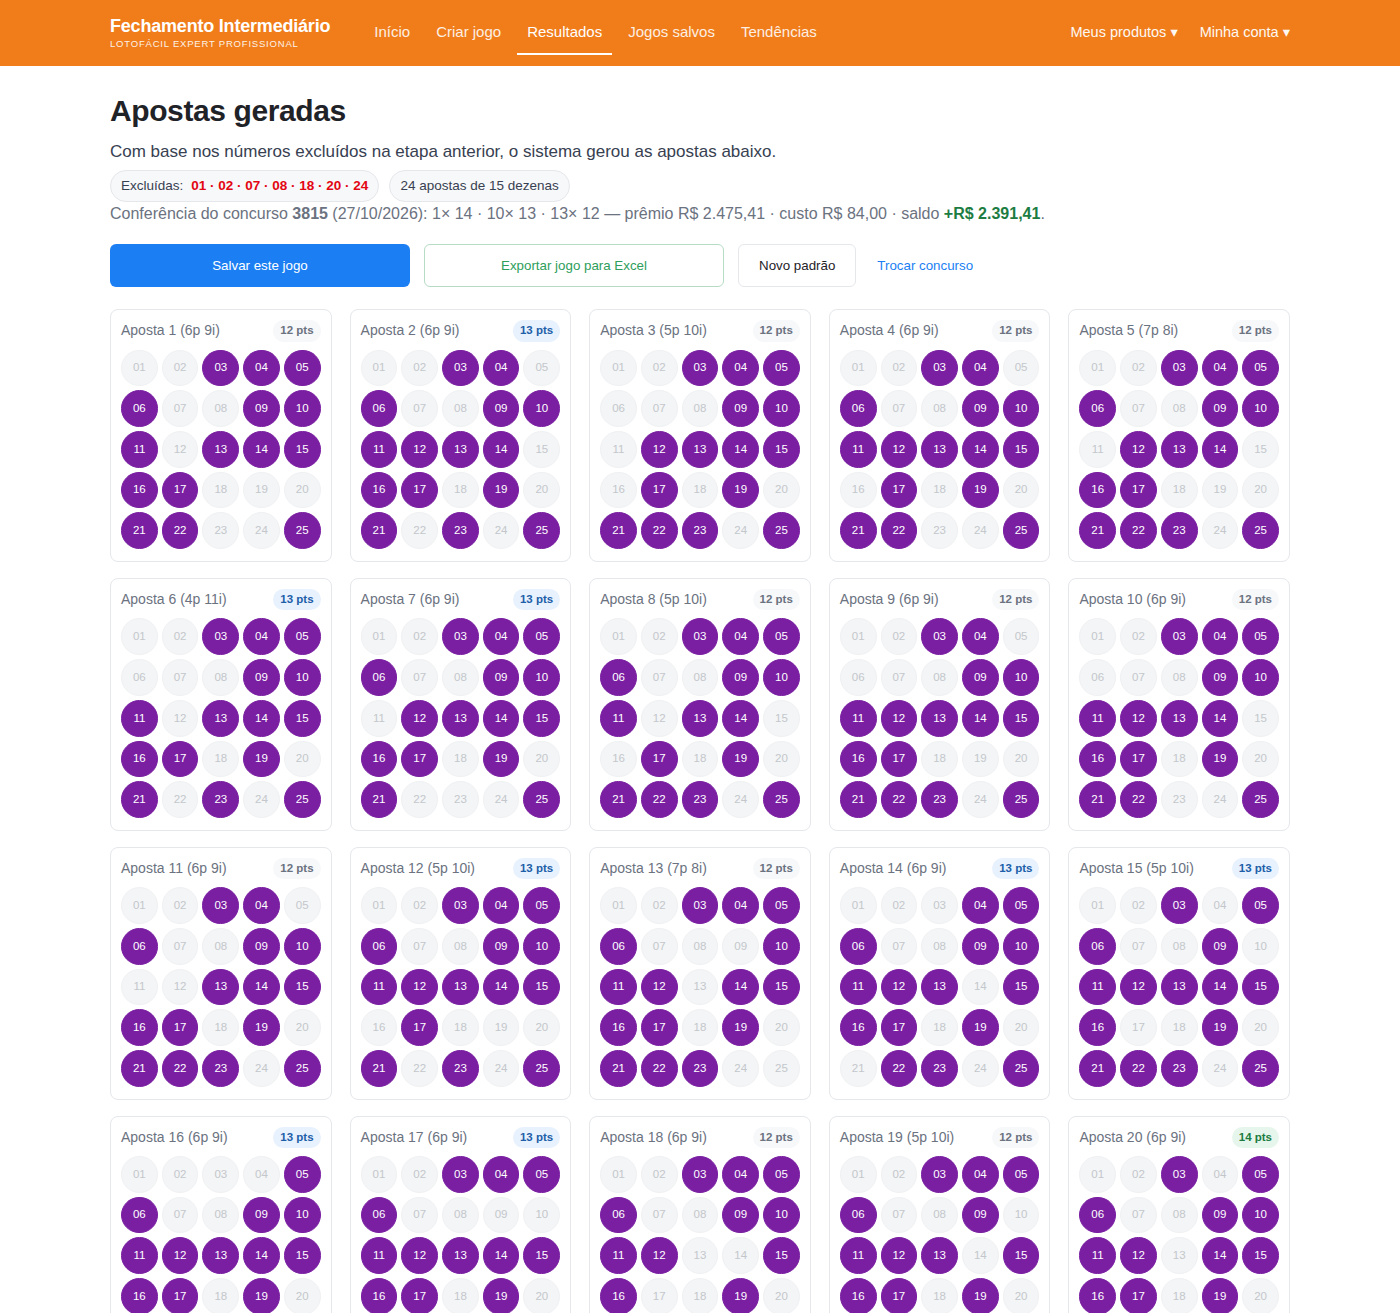
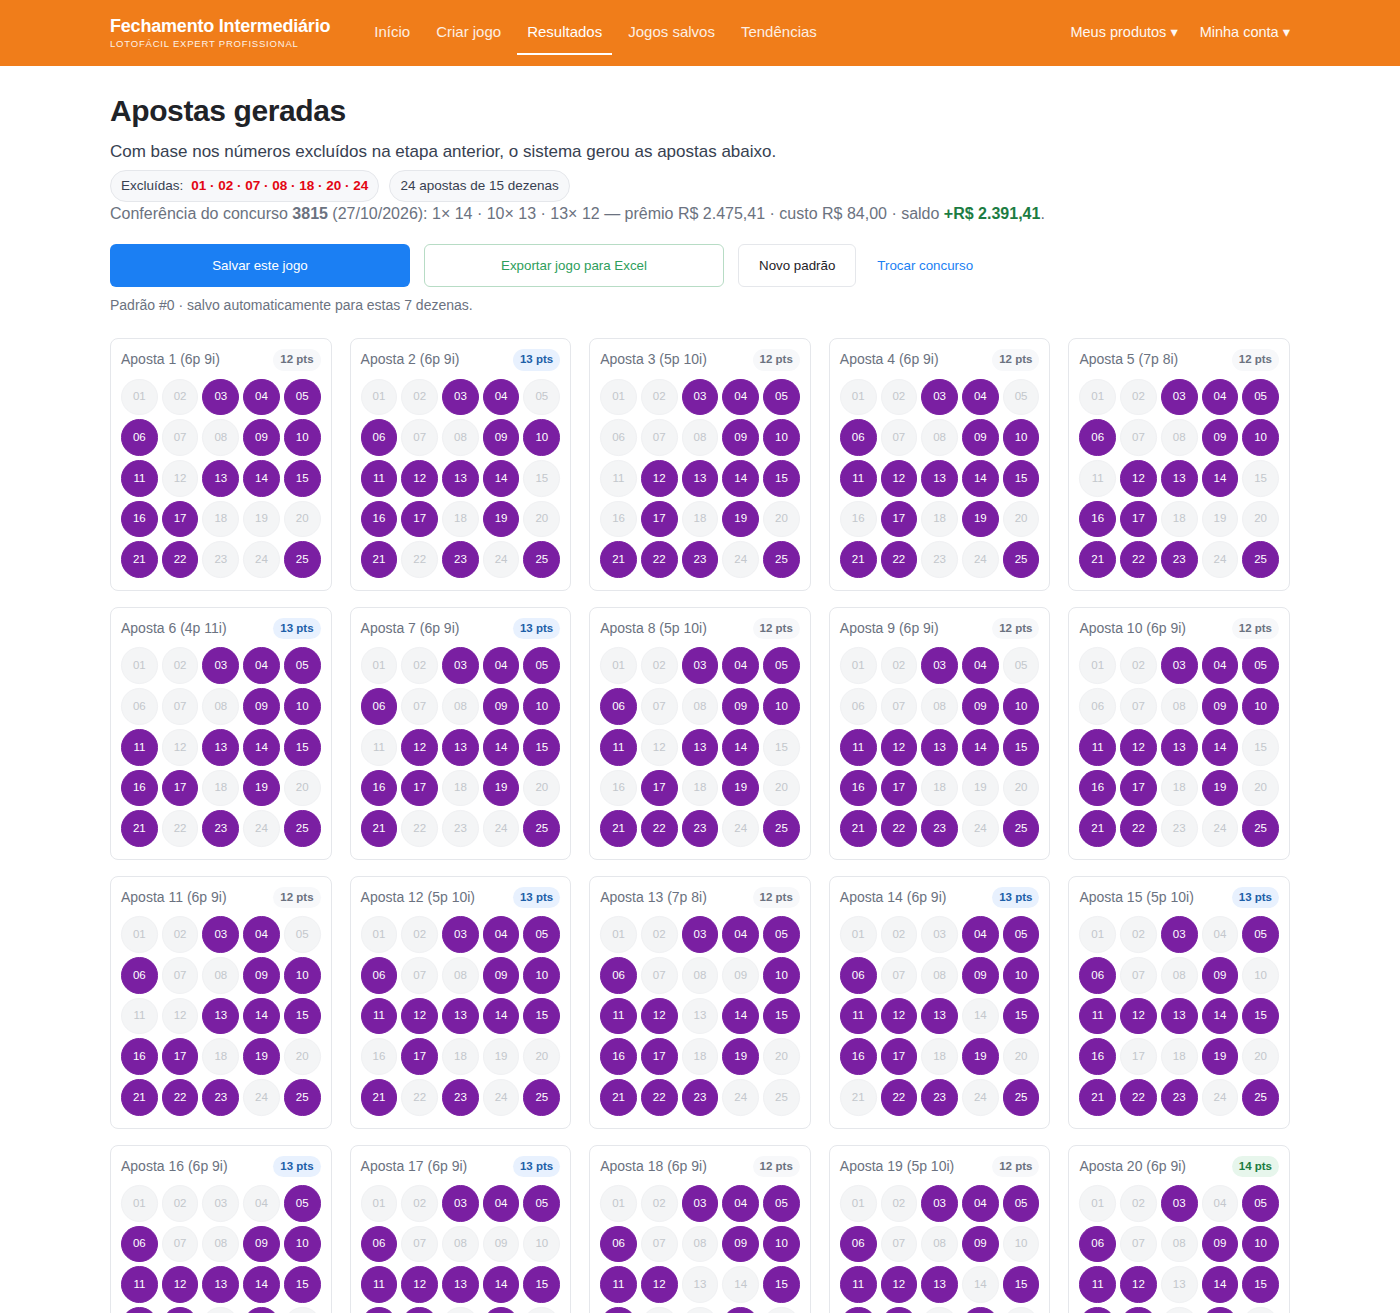
Padrão por seleção: apostas fiéis ao que o usuário escolheu

Changed region(s): [[0.43, 0.2498, 0.9214, 1.0], [0.0614, 0.2186, 0.3993, 1.0]]

diff --git a/app.js b/app.js
@@ -24,7 +24,7 @@
   var state = {
     view: 'inicio',
     excluded: [],
-    seed: 0,
+    patterns: {},
     concurso: LATEST,
     price: 3.5,
     generation: null,
@@ -78,7 +78,7 @@
     try {
       localStorage.setItem(STORE, JSON.stringify({
         excluded: state.excluded,
-        seed: state.seed,
+        patterns: state.patterns,
         concurso: state.concurso,
         price: state.price,
         saved: state.saved,
@@ -100,7 +100,14 @@
           return Number.isInteger(n) && n >= 1 && n <= E.TOTAL;
         }).slice(0, E.EXCLUDED_COUNT);
       }
-      if (Number.isInteger(p.seed)) state.seed = p.seed;
+      if (p.patterns && typeof p.patterns === 'object') {
+        Object.keys(p.patterns).forEach(function (k) {
+          var v = p.patterns[k];
+          if (/^\d{1,2}(,\d{1,2}){6}$/.test(k) && Number.isInteger(v) && v >= 0 && v < 100000) {
+            state.patterns[k] = v;
+          }
+        });
+      }
       if (p.concurso != null && BY_CONCURSO[p.concurso]) state.concurso = p.concurso;
       if (typeof p.price === 'number' && p.price >= 0) state.price = p.price;
       if (Array.isArray(p.saved)) {
@@ -226,15 +233,35 @@
   }
 
   /* ---------------- geração ---------------- */
+  function patternKey(excluded) {
+    return excluded.slice().sort(function (a, b) { return a - b; }).join(',');
+  }
+
+  function seedFor(excluded) {
+    return state.patterns[patternKey(excluded)] || 0;
+  }
+
+  function updatePatternInfo() {
+    var nodes = $$('.pattern-info');
+    if (!nodes.length) return;
+    var text = state.excluded.length === E.EXCLUDED_COUNT
+      ? 'Padrão #' + seedFor(state.excluded) + ' · salvo automaticamente para estas 7 dezenas.'
+      : '';
+    nodes.forEach(function (n) { n.textContent = text; });
+    var zero = $('#btn-padrao-zero');
+    if (zero) zero.hidden = !(state.excluded.length === E.EXCLUDED_COUNT && seedFor(state.excluded) !== 0);
+  }
+
   function ensureGeneration() {
     if (state.excluded.length !== E.EXCLUDED_COUNT) { state.generation = null; return null; }
     var key = state.excluded.join(',');
-    if (state.generation && state.generation.seed === state.seed &&
+    var seed = seedFor(state.excluded);
+    if (state.generation && state.generation.seed === seed &&
         state.generation.excluded.join(',') === key) {
       return state.generation;
     }
     try {
-      state.generation = E.buildGames(state.excluded, { seed: state.seed });
+      state.generation = E.buildGames(state.excluded, { seed: seed });
     } catch (err) {
       console.error(err);
       state.generation = null;
@@ -363,6 +390,7 @@
     $('#inp-preco').value = String(state.price);
     renderBalls();
     updateSimulation();
+    updatePatternInfo();
   }
 
   function renderBalls() {
@@ -489,6 +517,7 @@
       guarantee.hidden = true;
       conf.hidden = true;
       resumo.textContent = 'Com base nos números excluídos na etapa anterior, o sistema gerou as apostas abaixo.';
+      updatePatternInfo();
       return;
     }
 
@@ -512,6 +541,7 @@
       row[2].forEach(function (n) { drawSet[n] = true; });
     }
     gen.games.forEach(function (g) { host.appendChild(renderGameCard(g, drawSet)); });
+    updatePatternInfo();
 
     if (row) {
       var score = E.scoreGames(gen.games, row[2], prizesOf(row));
@@ -610,7 +640,7 @@
 
       acts.appendChild(mkBtn('Abrir', 'btn--ghost', function () {
         state.excluded = entry.excluded.slice();
-        state.seed = entry.seed || 0;
+        state.patterns[patternKey(state.excluded)] = entry.seed || 0;
         state.concurso = BY_CONCURSO[entry.concurso] ? entry.concurso : LATEST;
         state.generation = null;
         saveState();
@@ -774,15 +804,27 @@
       if (!gen) return;
       exportGeneration(gen, state.concurso, gen.excluded.map(E.pad).join('-'));
     });
-    $('#btn-novo-padrao').addEventListener('click', function () {
+    $('#btn-padrao-zero').addEventListener('click', function () {
       if (!state.generation) return;
-      state.seed = (state.seed + 1) % 100000;
+      var key = patternKey(state.excluded);
+      state.patterns[key] = 0;
       state.generation = null;
       ensureGeneration();
       saveState();
       renderResultados();
       updateSimulation();
-      toast('Novo padrão gerado com as mesmas garantias.');
+      toast('Padrão #0 restaurado para estas dezenas.');
+    });
+    $('#btn-novo-padrao').addEventListener('click', function () {
+      if (!state.generation) return;
+      var key = patternKey(state.excluded);
+      state.patterns[key] = ((state.patterns[key] || 0) + 1) % 100000;
+      state.generation = null;
+      ensureGeneration();
+      saveState();
+      renderResultados();
+      updateSimulation();
+      toast('Padrão #' + state.patterns[key] + ' gerado e salvo para estas dezenas.');
     });
     $('#btn-usar-sugestao').addEventListener('click', function () {
       var sug = state.trends.suggestion;

diff --git a/index.html b/index.html
@@ -114,6 +114,7 @@
             <button type="button" class="btn btn--primary" id="btn-gerar" disabled>Gerar apostas</button>
             <button type="button" class="btn btn--ghost" id="btn-limpar-selecao" disabled>Limpar seleção</button>
           </div>
+          <p class="muted small pattern-info" id="pattern-info-criar"></p>
         </div>
 
         <aside class="prize-col">
@@ -165,6 +166,8 @@
         <button type="button" class="btn btn--ghost" id="btn-novo-padrao">Novo padrão</button>
         <button type="button" class="btn btn--link" id="btn-ir-resultado">Trocar concurso</button>
       </div>
+      <p class="muted small pattern-info" id="pattern-info-resultados"></p>
+      <p class="pattern-reset"><button type="button" class="link" id="btn-padrao-zero" hidden>Restaurar padrão #0</button></p>
 
       <div class="empty" id="resultados-vazio">
         Nenhum jogo gerado ainda.

diff --git a/styles.css b/styles.css
@@ -110,6 +110,8 @@ code { font-family: ui-monospace, SFMono-Regular, Menlo, monospace; font-size: 1
 .volante button.is-selected:hover { background: #c90511; }
 
 .picker-actions { display: flex; gap: 12px; align-items: center; flex-wrap: wrap; }
+.pattern-info { margin: 4px 0 0; }
+.pattern-reset { margin: 2px 0 0; font-size: 13px; }
 
 .hint { margin: 16px 0; color: var(--muted); font-size: 14.5px; min-height: 22px; }
 .hint.is-warn { color: #b45309; }

diff --git a/README.md b/README.md
@@ -13,8 +13,9 @@ dependências, sem servidor, sem build — e com o **histórico real** dos concu
 - **Simulação em tempo real**: a cada dezena marcada (ao completar 7), a tabela “Se você tivesse
   jogado” é recalculada contra um concurso real escolhido no seletor — mostra quantidade por
   faixa, prêmio oficial do concurso, custo e **saldo (lucro/prejuízo)**.
-- **Histórico real da Caixa**: 3.815 concursos (29/09/2003 a 27/10/2026), com as 15 dezenas e os
+- **Histórico real da Caixa**: 3.816 concursos (29/09/2003 a 28/10/2026), com as 15 dezenas e os
   valores de premiação de cada faixa.
+- **Padrão salvo por seleção**: as 24 apostas dependem só das 7 dezenas e do padrão; o padrão escolhido fica guardado para aquela seleção e é reproduzido ao voltar (inclusive após recarregar a página).
 - **Limpar seleção**: um clique remove as 7 dezenas marcadas e zera a simulação.
 - **Busca por concurso**: digite qualquer número (1 a 3.816) no campo e clique em Buscar; o app carrega aquele resultado.
 - **Pares/ímpares por aposta**: cada cartão mostra `Aposta 6 (4p 11i)`.
@@ -91,6 +92,18 @@ Não é sorteio nem heurística: é um desenho combinatório verificável.
 Consequências: cada dezena é omitida 4 vezes (aparece em 20 apostas); os 72 pares internos são
 cobertos uma única vez; todo conjunto de 3 dezenas não sorteadas contém um par interno (pombos nos
 dois grupos) → alguma aposta omite só dezenas não sorteadas → **14 ou 15 pontos**.
+
+### Fidelidade das apostas (padrão por seleção)
+
+As 24 apostas são função de **duas coisas**: as 7 dezenas excluídas e o número do padrão. O app
+guarda, por seleção (ex.: `01,02,04,07,08,18,21`), qual padrão foi escolhido:
+
+- seleção nova começa no **Padrão #0**;
+- **Novo padrão** troca o padrão **somente daquelas 7 dezenas** e salva a escolha;
+- ao voltar para a mesma seleção — hoje ou depois de recarregar — as mesmas 24 apostas são
+  reproduzidas (ex.: concurso 3815 com `01 02 04 07 08 18 21` no Padrão #0 tem 1 aposta de
+  15 pontos na **Aposta 12**);
+- **Salvar este jogo** grava também o padrão, então o jogo salvo é um retrato imutável.
 
 ## Simulação retroativa (a tabela do esboço)
 
